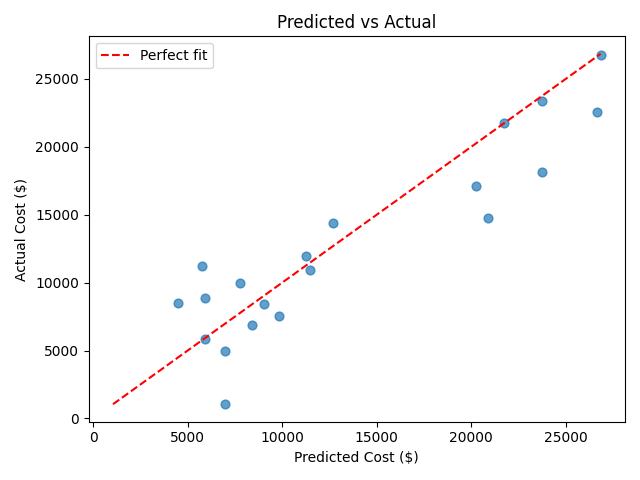
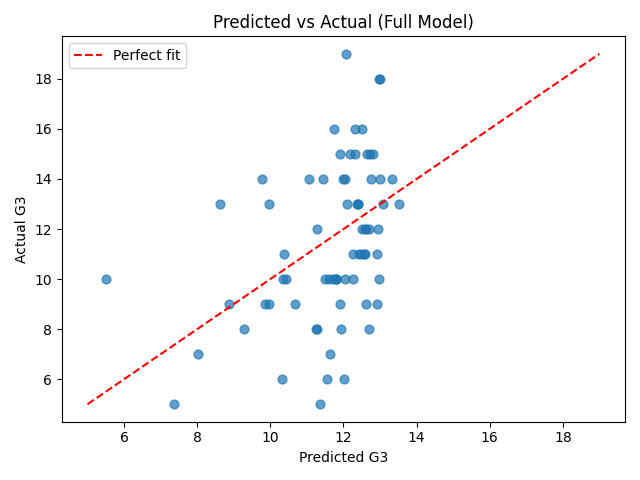
Add project_02 Tasks 6 and G1: predicted vs actual plot, plain-language summary, (R2 0.15->0.75)

diff --git a/assignments_02/project_02.py b/assignments_02/project_02.py
@@ -344,3 +344,105 @@ for name, coef in zip(feature_cols, model_full.coef_):
 # highlighting that academic performance is influenced by complex,
 # partially unobserved factors not fully captured in this dataset.
 
+# =============================================================================
+# Task 6: Evaluate and Summarize
+# =============================================================================
+
+print("\n=== Task 6: Evaluate and Summarize ===")
+
+# Predicted vs Actual plot for the full model test set.
+# Each dot is one student: x = what the model predicted, y = their real grade.
+# A perfect model would place every point on the diagonal (predicted = actual).
+# Clusters or curves away from the diagonal reveal systematic errors.
+plt.figure()
+plt.scatter(y_pred_f, y_test_f, alpha=0.7, s=40)
+diag_min = min(y_pred_f.min(), y_test_f.min())
+diag_max = max(y_pred_f.max(), y_test_f.max())
+plt.plot([diag_min, diag_max], [diag_min, diag_max], "r--", label="Perfect fit")
+plt.title("Predicted vs Actual (Full Model)")
+plt.xlabel("Predicted G3")
+plt.ylabel("Actual G3")
+plt.legend()
+plt.tight_layout()
+plt.savefig(os.path.join(OUTPUT_DIR, "predicted_vs_actual.png"))
+plt.close()
+print(f"Plot saved: {os.path.join(OUTPUT_DIR, 'predicted_vs_actual.png')}")
+# A point above the diagonal: the model underestimated -- the student did
+# better than predicted (perhaps extra effort not captured in the features).
+# A point below the diagonal: the model overestimated -- the student
+# underperformed relative to their profile.
+# The spread appears fairly uniform across grade levels, with no strong
+# systematic pattern at the high or low end. The absence of a clear pattern
+# suggests that the model is limited by missing features rather than a
+# systematic modeling flaw.
+
+print(f"""
+Plain-language summary:
+  Dataset : {len(df_clean)} students after filtering out {len(df) - len(df_clean)} exam absences
+  Test set: {len(y_test_f)} students (20%)
+  RMSE    : {rmse_full:.2f} on a 0-20 scale -- typical prediction error ~{rmse_full:.1f} grade points
+  R2      : {r2_test:.2f} -- the model explains ~{r2_test*100:.0f}% of variance in final grades
+
+  Largest positive coef: higher     = +{model_full.coef_[feature_cols.index('higher')]:.3f}
+    Students who aspire to higher education score notably better (motivation signal).
+  Largest negative coef: schoolsup  = {model_full.coef_[feature_cols.index('schoolsup')]:.3f}
+    Driven by selection bias -- weaker students receive support, not the reverse.
+
+  Most surprising: schoolsup looks harmful but is not. Classic correlation vs causation.
+  Most of what drives a student's grade is not captured in this dataset.
+""")
+
+print(f"\nSummary stats:")
+print(f"  Dataset size (filtered): {len(df_clean)} students")
+print(f"  Test set size:           {len(y_test_f)} students")
+print(f"  Full model RMSE:         {rmse_full:.4f} (on 0-20 scale)")
+print(f"  Full model R2:           {r2_test:.4f}")
+print(f"  Largest positive coef:   higher     = +{model_full.coef_[feature_cols.index('higher')]:.3f}")
+print(f"  Largest negative coef:   schoolsup  = {model_full.coef_[feature_cols.index('schoolsup')]:.3f}")
+
+# =============================================================================
+# Neglected Feature: The Power of G1
+# =============================================================================
+
+print("\n=== Neglected Feature: Adding G1 ===")
+
+# G1 (first period grade) was deliberately excluded because it is so
+# predictive that it dominates everything else. Adding it now to show why.
+feature_cols_g1 = feature_cols + ["G1"]
+X_g1 = df_clean[feature_cols_g1].values
+y_g1 = df_clean["G3"].values
+
+X_train_g1, X_test_g1, y_train_g1, y_test_g1 = train_test_split(
+    X_g1, y_g1, test_size=0.2, random_state=42
+)
+
+model_g1 = LinearRegression()
+model_g1.fit(X_train_g1, y_train_g1)
+
+r2_test_g1 = model_g1.score(X_test_g1, y_test_g1)
+print(f"Test R2 without G1: {r2_test:.4f}")
+print(f"Test R2 with G1:    {r2_test_g1:.4f}")
+
+# Using G1 to predict G3 is a form of target leakage in practice:
+# G1 is available only after the first exam has already happened,
+# so it cannot help educators intervene before a student starts failing.
+#
+# Does a high R2 here mean G1 causes G3? No -- correlation is not causation.
+# G1 and G3 are both measures of the same student's math ability at
+# different points in the year. A student who is good at math gets good
+# grades throughout the year. G1 is not making them better; it is just
+# measuring the same underlying trait earlier.
+#
+# Is this useful for identifying students who might struggle? Only partly.
+# By the time G1 is available, the first exam has already happened.
+# To intervene early -- before a student fails -- educators would need
+# features available at enrollment: family background, study habits,
+# prior school history. That is exactly what our full model uses, and why
+# it matters even with a lower R2. A model that can flag at-risk students
+# before any exam is far more actionable than one that waits for G1.
+
+'''
+The model captures meaningful patterns (failures, motivation, background), 
+but most of the variance in student performance remains unexplained, 
+highlighting the complexity of real-world outcomes and the limitations of tabular survey data.
+'''